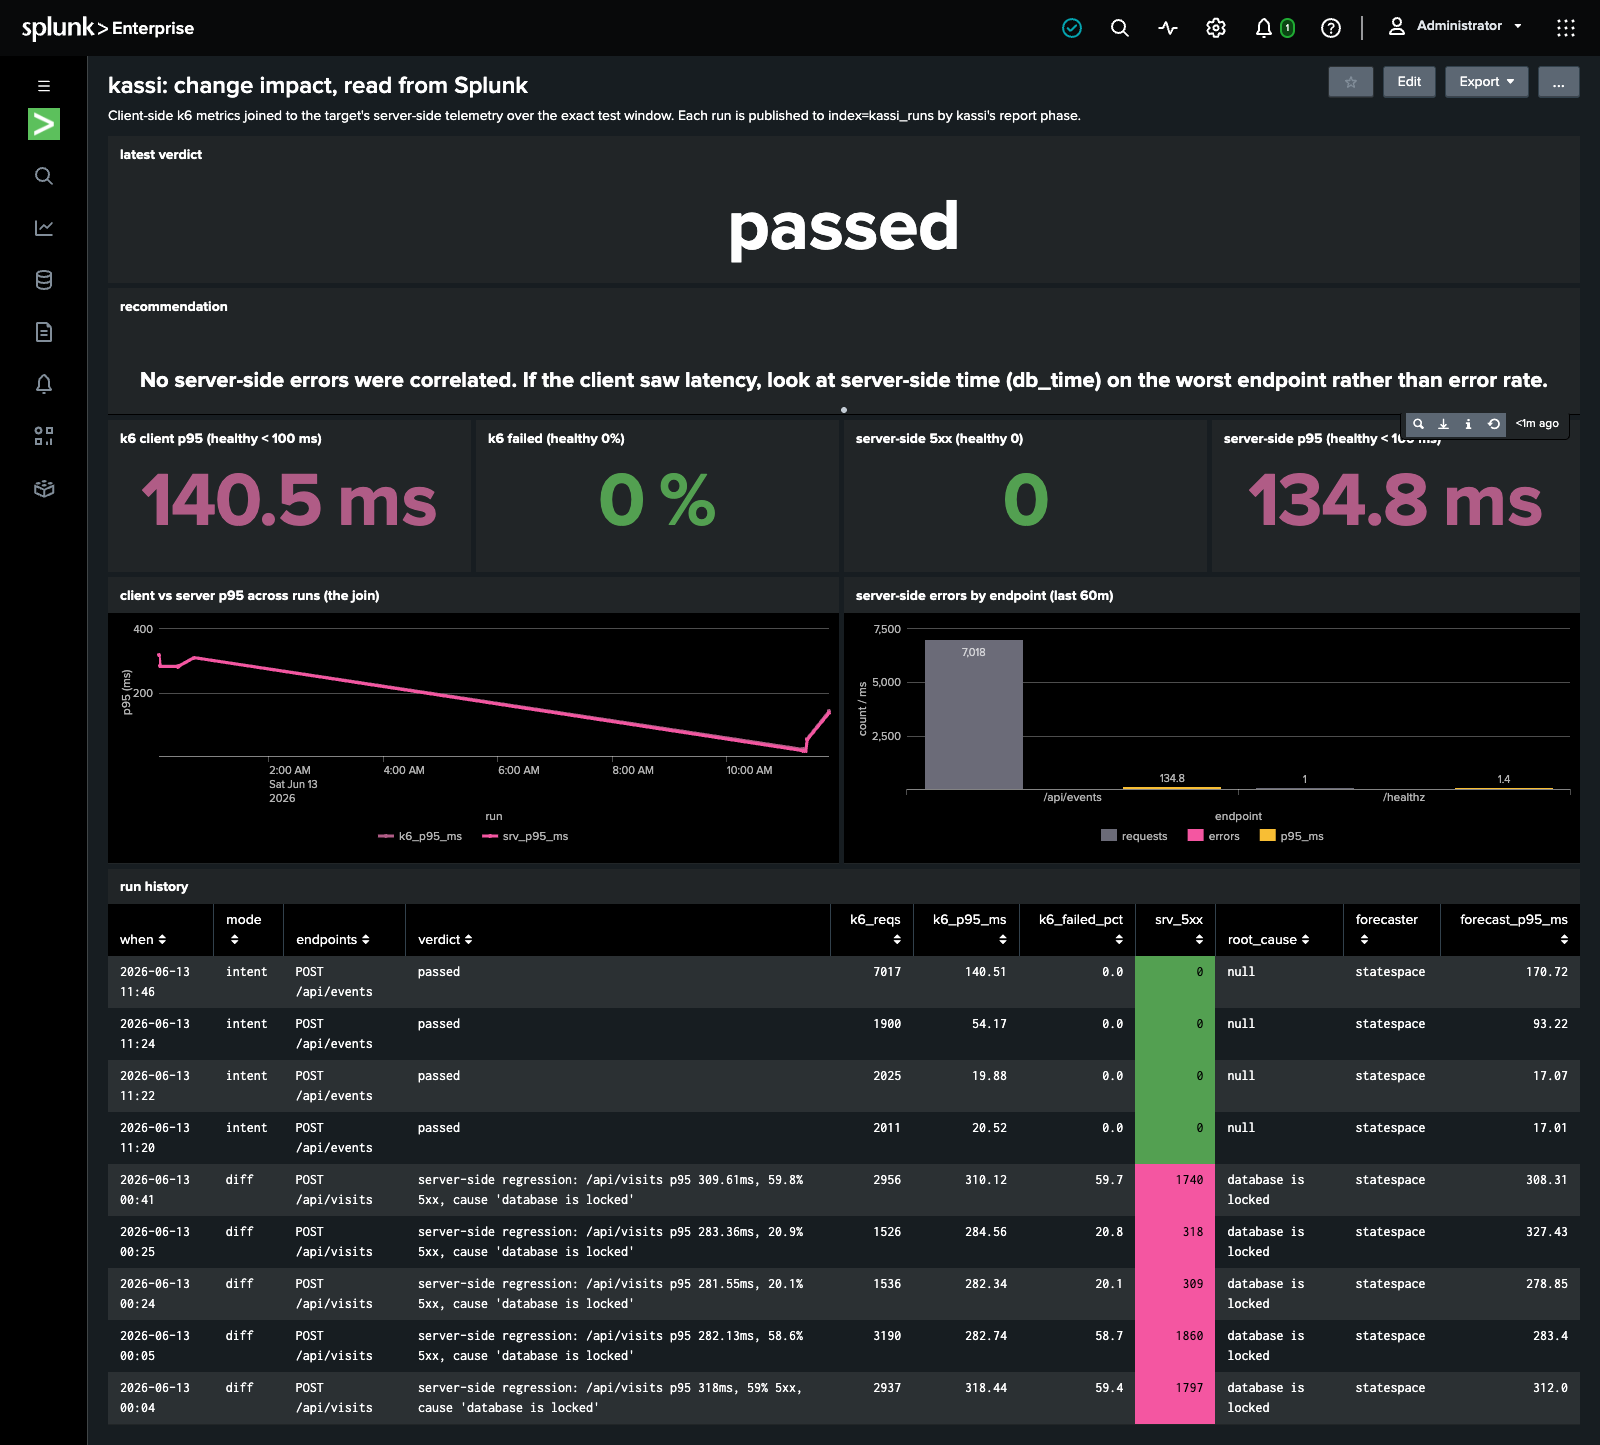
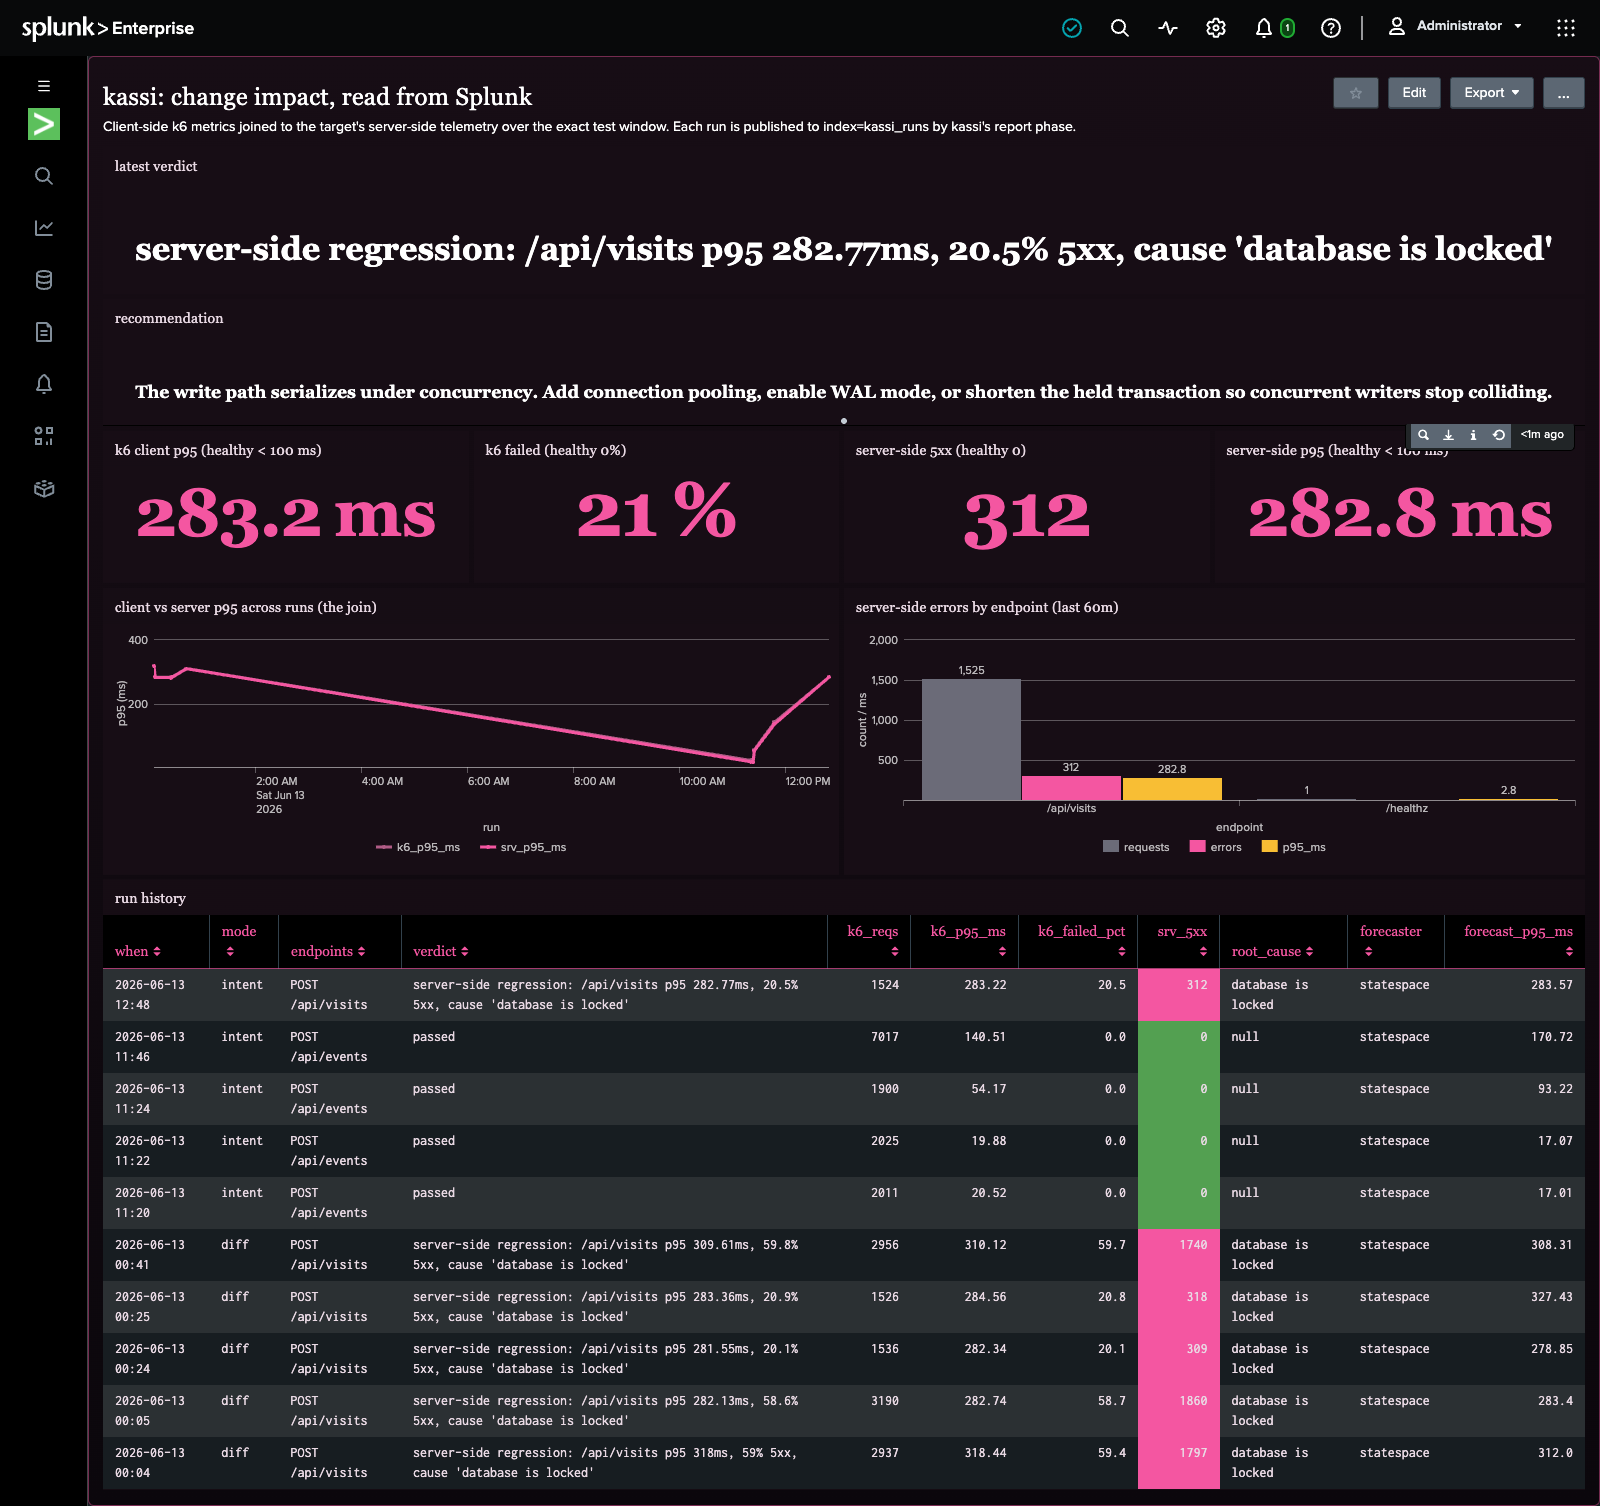
polish: skin the dashboard to the cover (dark purple, magenta, serif)
Add a custom stylesheet (docs/dashboard/kassi.css, installed into the app's static by
setup_dashboard.py and referenced via the dashboard's stylesheet attribute) so the board
matches the cover: near-black purple background, magenta hairline frame and accents, Georgia
serif for the title/verdict/panel titles, transparent chart backgrounds. Recapture the
screenshot with a regression as the hero verdict (database is locked) and embed it in the README.

diff --git a/docs/dashboard/kassi.css b/docs/dashboard/kassi.css
@@ -1,0 +1,86 @@
+/* kassi dashboard skin: match the cover image (near-black purple, magenta, serif).
+   Loaded by docs/dashboard/kassi_overview.xml via the dashboard `stylesheet` attribute;
+   installed into the app's appserver/static by scripts/setup_dashboard.py. */
+
+:root {
+  --kassi-magenta: #f456a1;
+  --kassi-magenta-dim: #b05c86;
+  --kassi-bg-top: #170d15;
+  --kassi-bg-bot: #0b070c;
+  --kassi-ink: #e9d9e4;
+}
+
+/* page + dashboard surfaces -> the cover's dark purple-black gradient */
+body.simplexml,
+.dashboard-body,
+.dashboards-view,
+.main-section-body,
+.view-container,
+.preview-panel {
+  background-color: var(--kassi-bg-bot) !important;
+  background-image: linear-gradient(180deg, var(--kassi-bg-top), var(--kassi-bg-bot)) !important;
+}
+
+/* a thin magenta frame around the board, like the cover's border */
+.dashboard-body {
+  border: 1px solid rgba(244, 86, 161, 0.45) !important;
+  border-radius: 6px !important;
+  padding: 10px 14px !important;
+}
+
+/* the dashboard title: white serif wordmark like "kassi" on the cover */
+.dashboard-title,
+.dashboard-header h1,
+h1.dashboard-title {
+  font-family: Georgia, Didot, "Times New Roman", serif !important;
+  font-weight: 400 !important;
+  color: #ffffff !important;
+  letter-spacing: 0.3px !important;
+}
+.dashboard-description {
+  font-family: Georgia, serif !important;
+  font-style: italic !important;
+  color: var(--kassi-magenta) !important;
+}
+
+/* panel titles: serif, dim ink */
+h3.dashboard-element-title,
+.panel-title,
+.dashboard-panel h2,
+.dashboard-panel h3 {
+  font-family: Georgia, serif !important;
+  font-weight: 400 !important;
+  color: var(--kassi-ink) !important;
+  letter-spacing: 0.2px !important;
+}
+
+/* panels: translucent dark with a faint magenta hairline */
+.dashboard-panel,
+.dashboard-element,
+.panel-body,
+.splunk-view {
+  background: rgba(23, 13, 21, 0.55) !important;
+  border-color: rgba(244, 86, 161, 0.18) !important;
+  box-shadow: none !important;
+}
+.dashboard-row,
+.dashboard-cell {
+  background: transparent !important;
+}
+
+/* single-value numbers: serif, to echo the wordmark */
+.single-value text,
+.splunk-single text,
+.single-value .single-result {
+  font-family: Georgia, serif !important;
+}
+
+/* table: dark, magenta header underline */
+.table thead th {
+  font-family: Georgia, serif !important;
+  color: var(--kassi-magenta) !important;
+  border-bottom: 1px solid rgba(244, 86, 161, 0.4) !important;
+}
+.table td {
+  color: var(--kassi-ink) !important;
+}

diff --git a/scripts/setup_dashboard.py b/scripts/setup_dashboard.py
@@ -70,6 +70,19 @@ def ensure_hec_token() -> str:
     return token
 
 
+def install_stylesheet() -> None:
+    """Copy the cover-matching CSS into the search app's static dir (referenced by the
+    dashboard's `stylesheet` attribute). Best-effort: skipped if SPLUNK_HOME isn't local."""
+    splunk_home = os.environ.get("SPLUNK_HOME") or os.path.expanduser("~/splunk")
+    static = Path(splunk_home) / "etc" / "apps" / "search" / "appserver" / "static"
+    if not static.parent.parent.exists():
+        print(f"stylesheet: skipped (no app dir at {static}); copy kassi.css there manually")
+        return
+    static.mkdir(parents=True, exist_ok=True)
+    (static / "kassi.css").write_text((ROOT / "docs" / "dashboard" / "kassi.css").read_text())
+    print(f"stylesheet: installed kassi.css -> {static} (run /en-US/_bump if iterating)")
+
+
 def install_dashboard() -> None:
     xml = (ROOT / "docs" / "dashboard" / "kassi_overview.xml").read_text()
     status, _ = _req(
@@ -92,6 +105,7 @@ def install_dashboard() -> None:
 if __name__ == "__main__":
     ensure_index()
     token = ensure_hec_token()
+    install_stylesheet()
     install_dashboard()
     web = MGMT.replace("8089", "8000").replace("https://", "http://")
     print("\nDashboard:", f"{web}/en-US/app/search/{DASHBOARD}")

diff --git a/README.md b/README.md
@@ -322,6 +322,8 @@ uv run python scripts/verify_scenario.py feed   # or petclinic | storefront | ga
 
 ## Dashboard
 
+<p align="center"><img src="docs/assets/shot-dashboard.png" alt="kassi dashboard: change impact read from Splunk" width="820" /></p>
+
 The `report` phase publishes each run (verdict, k6 client metrics, the server-side correlation,
 the forecast, the root cause) to `index=kassi_runs` over HEC, so the client-and-server join lives
 in a Splunk dashboard, not just the terminal. The agent stays CLI/MCP; Splunk is the reporting